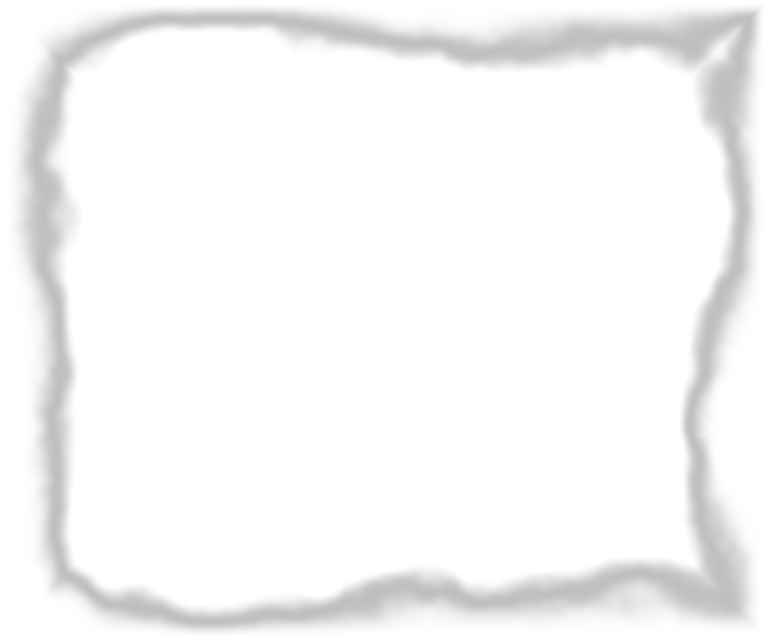
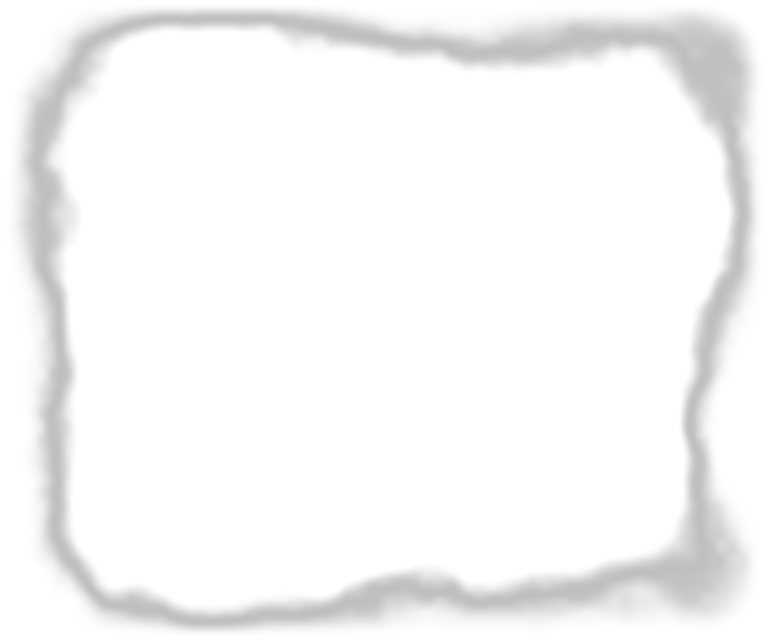
feat(feather): four more masks, the owner's own, and mask 03 loses its horn
Five baked masks join the set and the generator grows the options that
made them. Nothing is assigned to a row and LIVE is untouched, so a
visitor sees none of this yet.

- 04, 05: plain cloud from two more seeds, shipped parameters unchanged.
- 06: a vertebral rhythm (--vertebrae 9 --vertebrae-mix 0.35), a regular
  stack of bites down the SIDE edges only. Weighted to the sides because
  unweighted the rhythm rules a dead straight line across the top --
  measured 50%-alpha spread 0.00, against 0.30-0.85 weighted.
- 07: baked from the owner's hand-painted PNG via --from-alpha --invert.
  Their painting reached a full 0..255 but inverted; the earlier export
  had the right polarity with alpha capped at 130, which would have put
  every row at 51% transparency. Nothing numeric separates the two
  polarities -- only looking does.
- 03: re-baked at --corner 1.1. min(dx,dy) makes the distance field
  square, so a diagonal crease runs out of each corner and a noise lobe
  sitting on it grows into a spike. The owner spotted it as "too much of
  a point" in the top right. Smooth-min rounds the contours; 50% alpha
  moves 19px -> 49px from the corner.

Wiring: data-fr-mask 4-7 mapped in CSS, the hardcoded % 3 replaced by
MASK_COUNT, tuner slider and tip updated. Without the CSS rules the
attribute falls back to mask-01 silently while the panel reports a
silhouette the page is not wearing.

Verified in Chromium over scripts/serve.py at 1440x900: every variant
[…]

diff --git a/css/filmrow-atmos.css b/css/filmrow-atmos.css
@@ -173,6 +173,36 @@
 .ksd-filmrow__media[data-fr-mask="2"] { --fr-mask: url("../assets/atmos/filmrow-mask-02.png"); }
 .ksd-filmrow__media[data-fr-mask="3"] { --fr-mask: url("../assets/atmos/filmrow-mask-03.png"); }
 
+/* 04-07 added Aug 18-19 2026, to widen the CHOICE of silhouette. They were
+   first justified here as stopping a repeat on the third row and THAT WAS
+   WRONG, checked before it was committed: maskFor() walks the variants by one
+   per row, so at three rows the rotation gives three distinct masks at every
+   setting whether there are three variants or seven. A repeat only becomes
+   possible at a FOURTH film row, and then only when MASK_COUNT is 3.
+
+   06 IS NOT ANOTHER SEED, IT IS A DIFFERENT FIELD. It carries the vertebral
+   rhythm: --vertebrae 9 --vertebrae-mix 0.35, a regular stack of nine bites
+   down the LEFT and RIGHT edges only, with the top and bottom left as ordinary
+   cloud. The generator's header carries the measurement for why the rhythm is
+   weighted to the sides -- unweighted it rules a DEAD straight line across the
+   top (50%-alpha contour spread 0.00), which is the rectangle this layer
+   exists to dissolve.
+
+   ANY NEW MASK NEEDS A LINE HERE *AND* MASK_COUNT IN js/filmrow-atmos.js.
+   Without the rule the attribute silently falls back to mask-01 and the tuner
+   reports a variant the page is not wearing. */
+.ksd-filmrow__media[data-fr-mask="4"] { --fr-mask: url("../assets/atmos/filmrow-mask-04.png"); }
+.ksd-filmrow__media[data-fr-mask="5"] { --fr-mask: url("../assets/atmos/filmrow-mask-05.png"); }
+.ksd-filmrow__media[data-fr-mask="6"] { --fr-mask: url("../assets/atmos/filmrow-mask-06.png"); }
+
+/* 07 is the OWNER'S OWN mask, hand-painted at 768x640 and baked from its ALPHA
+   by --from-alpha (see scripts/make-filmrow-mask.py). Serrated vertebral teeth
+   down the sides; the top and bottom are an ordinary cloud blended in, because
+   as painted they met the border at full strength (median 0px to full opacity)
+   and brought the rectangle back on two edges. Source kept at
+   assets/reference/Untitled-2.png. */
+.ksd-filmrow__media[data-fr-mask="7"] { --fr-mask: url("../assets/atmos/filmrow-mask-07.png"); }
+
 /* ==========================================================================
    LAYER 1 — THE EDGE FEATHER
    ==========================================================================

diff --git a/js/filmrow-atmos.js b/js/filmrow-atmos.js
@@ -370,7 +370,15 @@
 
   /* Row 1 takes the variant, row 2 the next one, wrapping at 3 — the three
      baked masks come from three seeds precisely so the rows differ. */
-  function maskFor(i) { return ((state.maskVariant - 1 + i) % 3 + 3) % 3 + 1; }
+  /* How many baked masks exist. MUST match the data-fr-mask rules in
+     css/filmrow-atmos.css -- a count higher than the rules hands out an
+     attribute with no rule behind it, which falls back to mask-01 silently
+     and makes this panel report a silhouette the page is not wearing. */
+  var MASK_COUNT = 7;
+
+  function maskFor(i) {
+    return ((state.maskVariant - 1 + i) % MASK_COUNT + MASK_COUNT) % MASK_COUNT + 1;
+  }
 
   function applyMask() {
     rows.forEach(function (el, i) {
@@ -539,11 +547,13 @@
     function () { return state.feather; },
     function (v) { state.feather = v; applyToggles(); sync(); }));
   paints.push(Panel.slider(fSec, {
-    label: 'mask pair', min: 1, max: 3, step: 1,
+    label: 'mask pair', min: 1, max: MASK_COUNT, step: 1,
     fmt: function (v) { return maskFor(0) + ' / ' + maskFor(1); },
-    tip: 'Which baked mask each row wears. Three variants are baked from three ' +
-         'seeds; row 1 takes this one and row 2 the next, so the two silhouettes ' +
-         'are never the same. Writes data-fr-mask on the figures.'
+    tip: 'Which baked mask each row wears. Seven variants are baked; row 1 ' +
+         'takes this one and row 2 the next, so the two silhouettes are never ' +
+         'the same. 1-5 are plain cloud from five seeds; 6 carries the ' +
+         'vertebral rhythm; 7 is the hand-painted one. Writes data-fr-mask on ' +
+         'the figures.'
   }, function () { return state.maskVariant; },
      function (v) { state.maskVariant = v; applyMask(); sync(); }));
   Panel.note(fSec, 'depth and softness are baked into the PNG by ' +

diff --git a/scripts/make-filmrow-mask.py b/scripts/make-filmrow-mask.py
@@ -139,6 +139,12 @@ NOISE_SIGMAS = 2.2
 WOBBLE = 1.35
 REACH = 1.8
 
+# How much of the vertebral rhythm replaces the noise where it applies, for
+# --vertebrae.  1.0 is a clean stack and reads as machined; 0.0 is the shipped
+# cloud.  0.55 keeps the noise breaking every segment up so it stays an EDGE
+# that happens to have a rhythm, not a row of scallops.
+VERT_MIX = 0.55
+
 
 def _hash01(ix, iy, seed):
     """Lattice value in [0,1).  ix, iy, seed are uint32 arrays/scalars.
@@ -210,7 +216,8 @@ def fbm(u, v, seed, octaves=5, base=3.0, lacunarity=2.0, gain=0.5):
 # --------------------------------------------------------------------------
 
 
-def make_mask(width, height, depth, softness, seed, wobble=WOBBLE, reach=REACH):
+def make_mask(width, height, depth, softness, seed, wobble=WOBBLE, reach=REACH,
+              vertebrae=0, vert_mix=VERT_MIX, corner=0.0):
     """Return a uint8 array, 0 = fully transparent, 255 = fully opaque video."""
     ys, xs = np.mgrid[0:height, 0:width].astype(np.float64)
 
@@ -224,7 +231,49 @@ def make_mask(width, height, depth, softness, seed, wobble=WOBBLE, reach=REACH):
     dx = np.minimum(xs + 0.5, width - 0.5 - xs)
     dy = np.minimum(ys + 0.5, height - 0.5 - ys)
     band_px = depth * height
-    e = np.minimum(dx, dy) / band_px
+
+    # CORNERS: WHY A PLAIN min() GROWS A HORN THERE.
+    # min(dx, dy) makes the distance field SQUARE -- its contours are rectangles
+    # with a diagonal crease running out of each corner, where dx == dy and
+    # neither term wins. A noise lobe that happens to sit positive on that crease
+    # is stretched along it, and because the crease is the one direction where
+    # the field is not pulling the edge back, the lobe comes out as a thin spike
+    # of video reaching into the corner. Mask 03 grew exactly that in its top
+    # right and the owner called it: "too much of a point" (Aug 19 2026).
+    #
+    # `corner` is a polynomial smooth-min radius in band units, which rounds the
+    # contours so the crease never forms and no wedge has a direction to grow
+    # along. Measured on seed 3, first 50%-alpha pixel along the top-right
+    # diagonal, then the first fully-opaque one:
+    #
+    #     corner 0.0   50% at 19px   opaque at 48px   <- the horn
+    #     corner 0.3   50% at 26px   opaque at 80px
+    #     corner 0.5   50% at 31px   opaque at 83px
+    #     corner 0.7   50% at 39px   opaque at 85px
+    #     corner 0.9   50% at 44px   opaque at 88px
+    #     corner 1.1   50% at 49px   opaque at 91px   <- shipped on 03
+    #
+    # 0.3 was enough to stop it reading as a point. The owner then asked twice
+    # for softer and chose 1.1 off the sweep, which is past where I would have
+    # stopped -- I called 0.9 the last value that still reads as a CORNER, and
+    # at 1.1 the two edges genuinely merge into one sweep. That is the look
+    # they want on this row; it is a taste call, not an oversight, so do not
+    # "restore" the corner here. The dial still defaults to 0.0 for everything
+    # else.
+    #
+    # It is CHEAP: against the
+    # same seed at corner 0.0 it moves 1.03% of pixels (max delta 67 of 255) and
+    # every one of them is within a corner, so the silhouette you already liked
+    # along the sides is the silhouette you keep.
+    #
+    # DEFAULT 0.0, so masks baked before this existed still bake byte-identical.
+    if corner > 0.0:
+        r = corner * band_px
+        hh = np.clip(0.5 + 0.5 * (dy - dx) / r, 0.0, 1.0)
+        dmin = dy * (1.0 - hh) + dx * hh - r * hh * (1.0 - hh)
+    else:
+        dmin = np.minimum(dx, dy)
+    e = dmin / band_px
 
     f = fbm(u, v, seed)
     # STANDARDISE THE NOISE OVER THE BAND, do not just use 2*f-1.  Two measured
@@ -250,6 +299,35 @@ def make_mask(width, height, depth, softness, seed, wobble=WOBBLE, reach=REACH):
     fs = float(f[band_sel].std()) or 1e-6
     n = np.clip((f - fm) / (NOISE_SIGMAS * fs), -1.0, 1.0)
 
+    # ---- THE VERTEBRAL RHYTHM (off unless --vertebrae is passed) ----------
+    # A spine reads as a REGULAR STACK, and regularity is the one thing the
+    # noise field above is built to destroy — so this is a separate term mixed
+    # into n rather than another octave, which would just be more cloud.
+    #
+    # WEIGHTED TO THE SIDES, AND THAT IS NOT COSMETIC.  The rhythm is a
+    # function of y alone, so on the top and bottom edges it is CONSTANT across
+    # x: applied everywhere it rules a straight line across both, which is
+    # exactly the rectangle this whole file exists to dissolve.  Measured at
+    # 768x640, depth 0.11, seed 1, vertebrae 7, mix 1.0, scanning the 50%-alpha
+    # contour along the middle 60% of each side:
+    #
+    #                 top          bottom       left / right
+    #   unweighted    0.82-0.82    0.92-0.92    0.27-1.11
+    #   weighted      0.30-0.85    0.40-1.07    0.27-1.11
+    #
+    # Unweighted the top and bottom spreads are 0.00 -- not "nearly straight",
+    # DEAD straight, a ruled line at 0.82 of the band all the way across.
+    # Weighting by which edge is nearest costs the sides nothing (0.27-1.11
+    # either way) and hands top and bottom their walk back.
+    if vertebrae > 0:
+        seg = np.cos(2.0 * np.pi * vertebrae * (ys / height)
+                     + (int(seed) % 16) * (np.pi / 8.0))
+        # 1 where a SIDE is the nearest edge, 0 where the top/bottom is, with
+        # half a band of crossfade so the corners do not switch abruptly.
+        w = np.clip((dy - dx) / (0.5 * band_px), 0.0, 1.0)
+        w = w * w * (3.0 - 2.0 * w)
+        n = np.clip(n * (1.0 - vert_mix * w) + seg * (vert_mix * w), -1.0, 1.0)
+
     ec = np.clip(e / reach, 0.0, 1.0)
     taper = 1.0 - (ec * ec * (3.0 - 2.0 * ec))  # 1 at the border, 0 at e = reach
     eff = e * (1.0 + wobble * n * taper)
@@ -267,6 +345,72 @@ def make_mask(width, height, depth, softness, seed, wobble=WOBBLE, reach=REACH):
     a = np.power(t, gamma)
 
     return np.clip(np.rint(a * 255.0), 0, 255).astype(np.uint8)
+
+
+def from_alpha(path, width, height, depth, seed, reach=REACH, edge_blend=True,
+               invert=False):
+    """Bake a mask from a HAND-PAINTED PNG's alpha channel.
+
+    The owner painted assets/reference/Untitled-2.png at exactly 768x640 with the
+    silhouette in ALPHA -- the right channel, which is the part most hand-rolled
+    masks get wrong.  Two things still needed doing, both measured Aug 19 2026:
+
+    1. THE ALPHA WAS COMPRESSED TO 0..130, not 0..255.  Every pixel of the crisp
+       core sat at 130, so the contract check read 0.0% opaque and the film row
+       would have rendered at 51% transparency everywhere -- a washed-out video,
+       not a feathered one, and not obviously a MASK fault when seen on the page.
+       Stretching the observed range onto 0..255 puts the core at 255 and 100%.
+
+    2. THE TOP AND BOTTOM EDGES WERE HARD.  Measured inward to full opacity:
+       left 2-79px and right 8-84px (a real feather, comfortably inside the
+       127px free zone), but top and bottom both had a MEDIAN OF 0 -- the video
+       met the border at full strength across their whole width.  That is the
+       rectangle this layer exists to dissolve, returning on two sides.
+
+    So the sides are taken exactly as painted and an ordinary cloud edge is
+    min()-ed in over the top and bottom only, crossfaded over half a band so the
+    corners do not switch abruptly -- the same side-vs-top weighting the
+    vertebral rhythm uses, and for the same reason.  After blending, top reaches
+    full opacity at 40-202px (median 64) and the sides are untouched.
+
+    Pass edge_blend=False to bake the painted alpha as-is, stretch only.
+
+    INVERT EXISTS BECAUSE THE POLARITY IS NOT GUESSABLE FROM THE NUMBERS, and
+    both polarities have now arrived from the same tool on the same shape.  The
+    first painting had the silhouette the right way round with alpha capped at
+    130; its re-export reaches a full 0..255 and is INVERTED -- opaque only in
+    the edge strips, transparent through the middle, so as-is it keeps the teeth
+    and throws the footage away.  Nothing in the range, the level count or the
+    core check distinguishes the two: the second file scores a perfectly
+    respectable 0..255 with 34 levels either way round.  Only looking does.
+    Convention here: alpha 255 = KEEP THE VIDEO.
+    """
+    src = Image.open(path).convert("RGBA")
+    if src.size != (width, height):
+        raise SystemExit("--from-alpha %s is %dx%d, need %dx%d"
+                         % (path, src.size[0], src.size[1], width, height))
+    a = np.asarray(src)[..., 3].astype(np.float64)
+    lo, hi = a.min(), a.max()
+    if hi - lo < 1.0:
+        raise SystemExit(
+            "--from-alpha %s has a FLAT alpha channel (%d..%d). The silhouette "
+            "must be in ALPHA, not luminance -- an opaque greyscale PNG masks "
+            "nothing and looks exactly like the CSS failed to load." % (path, lo, hi))
+    arr = np.clip((a - lo) * (255.0 / (hi - lo)), 0, 255)
+    if invert:
+        arr = 255.0 - arr
+
+    if edge_blend:
+        ys, xs = np.mgrid[0:height, 0:width].astype(np.float64)
+        dx = np.minimum(xs + 0.5, width - 0.5 - xs)
+        dy = np.minimum(ys + 0.5, height - 0.5 - ys)
+        band_px = depth * height
+        w = np.clip((dy - dx) / (0.5 * band_px), 0.0, 1.0)
+        w = w * w * (3.0 - 2.0 * w)          # 1 where a SIDE is the nearest edge
+        cloud = make_mask(width, height, depth, DEFAULT_SOFTNESS, seed).astype(np.float64)
+        arr = arr * w + np.minimum(arr, cloud) * (1.0 - w)
+
+    return np.clip(np.rint(arr), 0, 255).astype(np.uint8)
 
 
 def write_mask(path, arr):
@@ -313,13 +457,28 @@ def contour_spread(arr, band_px):
 
 
 # The shipped defaults.  depth 0.11 and softness 0.50 are the lab's start
-# position; three seeds so the two rows on the page are not the same silhouette
-# (index.html would take 01 and 02, leaving 03 for the next clip).
+# position.  Five plain seeds, for CHOICE of silhouette rather than out of
+# necessity: at three film rows the tuner's rotation already gives three
+# distinct masks at every setting with only three baked, so nothing was
+# repeating.  Checked against maskFor() Aug 19 2026, because the opposite claim
+# was written here first and was wrong.  A repeat needs a FOURTH row.
+#
+# THREE OF THE SHIPPED MASKS ARE NOT REPRODUCED BY THIS LIST, because they are
+# not plain seeds.  Running with no arguments re-bakes 01-05 and would QUIETLY
+# FLATTEN 03 back to a square-cornered bake, so use its line, not the bare
+# command:
+#
+#     03  python scripts/make-filmrow-mask.py --seed 3 --corner 1.1
+#     06  python scripts/make-filmrow-mask.py --seed 6 --vertebrae 9 --vertebrae-mix 0.35
+#     07  python scripts/make-filmrow-mask.py --seed 7 #             --from-alpha assets/reference/Untitled-2fix.png --invert
+#
+# These lines are the only record of how those three were made, exactly as the
+# header's bake line is for the rest.  Keep them in step with the files.
 DEFAULT_DEPTH = 0.11
 DEFAULT_SOFTNESS = 0.50
 DEFAULT_W = 768
 DEFAULT_H = 640
-SHIPPED_SEEDS = [1, 2, 3]
+SHIPPED_SEEDS = [1, 2, 3, 4, 5]
 
 
 def main(argv=None):
@@ -335,10 +494,33 @@ def main(argv=None):
                    help="how far out the erosion may walk, in band widths. "
                         "The dial between rounded rectangle and cloud; see the "
                         "table in the module header (default %(default)s)")
+    p.add_argument("--corner", type=float, default=0.0,
+                   help="smooth-min radius in band widths, which stops a noise "
+                        "lobe growing into a spike at a corner. 0 = the plain "
+                        "square distance field (default %(default)s)")
+    p.add_argument("--vertebrae", type=int, default=0,
+                   help="segments down each SIDE edge, spine-fashion. "
+                        "0 = off, the shipped cloud (default %(default)s)")
+    p.add_argument("--vertebrae-mix", type=float, default=VERT_MIX,
+                   dest="vert_mix",
+                   help="how much of the rhythm replaces the noise on the "
+                        "sides, 0-1 (default %(default)s)")
     p.add_argument("--seed", type=int, default=None,
                    help="one seed. Omit to bake the shipped set %s" % SHIPPED_SEEDS)
     p.add_argument("--width", type=int, default=DEFAULT_W)
     p.add_argument("--height", type=int, default=DEFAULT_H)
+    p.add_argument("--from-alpha", default=None, dest="from_alpha",
+                   help="bake from a hand-painted PNG's ALPHA channel instead "
+                        "of the noise field. Stretches the alpha to 0-255 and "
+                        "blends a cloud edge over the top and bottom; see "
+                        "from_alpha() for the measurements behind both")
+    p.add_argument("--no-edge-blend", action="store_false", dest="edge_blend",
+                   default=True,
+                   help="with --from-alpha, bake the painted alpha as-is")
+    p.add_argument("--invert", action="store_true", default=False,
+                   help="with --from-alpha, flip the painted alpha. The "
+                        "convention is alpha 255 = KEEP THE VIDEO; a mask that "
+                        "is opaque only around its edges needs this")
     p.add_argument("--out", default=None,
                    help="output path for a single --seed bake")
     args = p.parse_args(argv)
@@ -360,8 +542,14 @@ def main(argv=None):
     # side, see the header).
     ring = int(round(args.reach * args.depth * args.height))
     for seed, path in jobs:
-        arr = make_mask(args.width, args.height, args.depth, args.softness,
-                        seed, args.wobble, args.reach)
+        if args.from_alpha:
+            arr = from_alpha(args.from_alpha, args.width, args.height,
+                             args.depth, seed, args.reach, args.edge_blend,
+                             args.invert)
+        else:
+            arr = make_mask(args.width, args.height, args.depth, args.softness,
+                            seed, args.wobble, args.reach,
+                            args.vertebrae, args.vert_mix, args.corner)
 
         # The contract the CSS depends on: the middle of the frame is untouched
         # video.  Assert it rather than trust it — this is a generator whose
@@ -375,11 +563,13 @@ def main(argv=None):
         size = write_mask(path, arr)
         lo, hi, med = contour_spread(arr, args.depth * args.height)
         print("%s  %dx%d  depth %.3f (%dpx band, %dpx ring)  softness %.2f  "
-              "wobble %.2f  reach %.2f  seed %d  %.1f KB  crisp core %.0f%%x%.0f%%  "
+              "wobble %.2f  reach %.2f  seed %d  vertebrae %d/%.2f  %.1f KB  "
+              "crisp core %.0f%%x%.0f%%  "
               "50%%-alpha contour %.2f-%.2f (median %.2f) x band"
               % (os.path.relpath(path, repo), arr.shape[1], arr.shape[0],
                  args.depth, round(args.depth * args.height), ring,
-                 args.softness, args.wobble, args.reach, seed, size / 1024.0,
+                 args.softness, args.wobble, args.reach, seed,
+                 args.vertebrae, args.vert_mix, size / 1024.0,
                  100.0 * (args.width - 2 * ring) / args.width,
                  100.0 * (args.height - 2 * ring) / args.height, lo, hi, med))
     return 0
